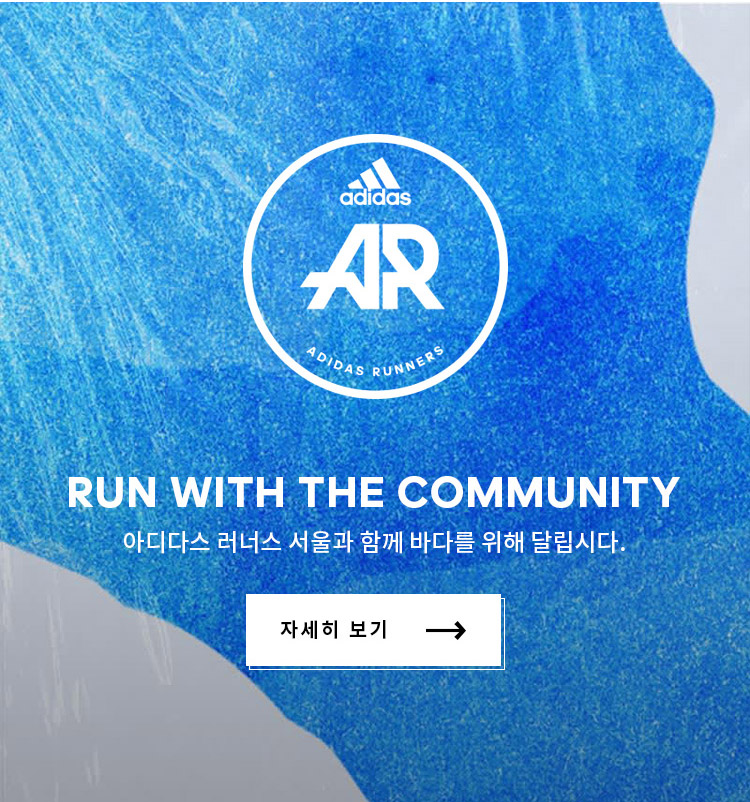
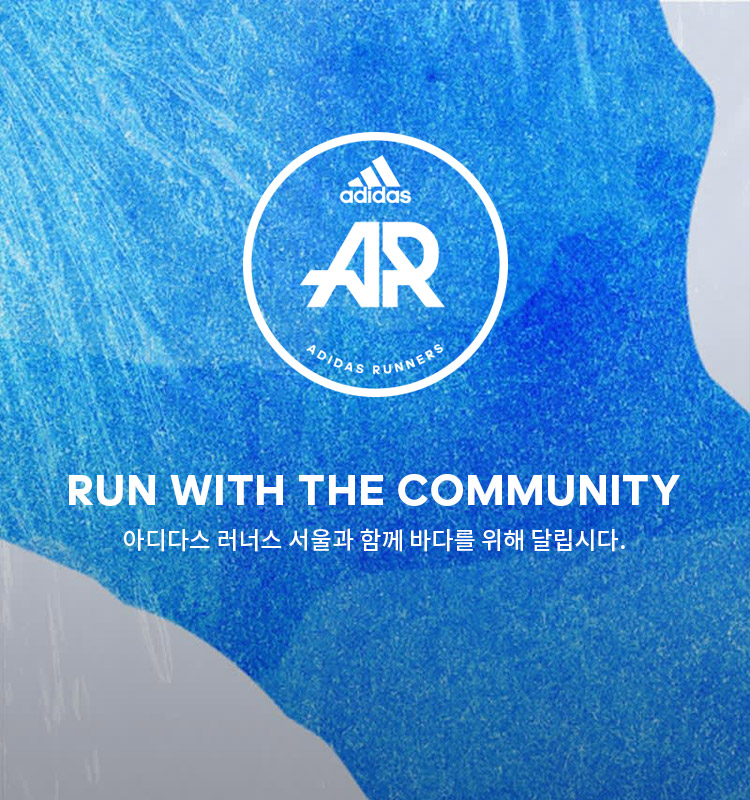
adi_cp_런포더오션

diff --git a/mobile/html/adidas/2019/event/runfortheocean/build/index.html b/mobile/html/adidas/2019/event/runfortheocean/build/index.html
@@ -444,7 +444,7 @@
        </div>
 
        <div id="container">
-<style type="text/css">@media screen and (max-width: 320px){html{font-size:10px}}@media screen and (min-width: 800px){html{font-size:12px}}.pseudo-element{content:'';display:block}#runforocean_cp{position:relative}#runforocean_cp .button_area_v2{display:inline-block;margin-bottom:2vh}#runforocean_cp .button_area_v2 a{width:auto;padding:0 1.3rem;font:500 1rem/46px 'NotoSansKR';letter-spacing:0;height:46px}#runforocean_cp .button_area_v2 a .arrow{width:20px}#runforocean_cp .button_area_v2 a .arrow::after{width:8px}#runforocean_cp .button_area_v2 a .arrow::before{width:8px}#runforocean_cp img{width:100%}#runforocean_cp .section{position:relative}#runforocean_cp .section a{position:absolute;top:0;left:0;width:100%;height:100%;z-index:1;display:block}
+<style type="text/css">@media screen and (max-width: 320px){html{font-size:10px}}@media screen and (min-width: 800px){html{font-size:12px}}.pseudo-element{content:'';display:block}#runforocean_cp{position:relative}#runforocean_cp .button_area_v2{display:inline-block;margin-bottom:2vh}#runforocean_cp .button_area_v2 a{width:auto;padding:0 1.3rem;font:600 1rem/46px 'NotoSansKR';letter-spacing:0.7px;height:46px}#runforocean_cp .button_area_v2 a .arrow{width:20px}#runforocean_cp .button_area_v2 a .arrow::after{width:8px}#runforocean_cp .button_area_v2 a .arrow::before{width:8px}#runforocean_cp img{width:100%}#runforocean_cp .section{position:relative;text-align:center}#runforocean_cp .section .button_area_v2{position:absolute;top:79%;left:50%;transform:translate(-50%, -50%);width:40%}
 </style>
 
            <div id="runforocean_cp">
@@ -455,7 +455,14 @@
                     <img src="/images/adidas/2019/event/runfortheocean/run02.jpg" alt="">
                 </div>
                 <div class="section">
-                    <a href="https://m.adidas.co.kr/MO/Club/adidasrunners.action"></a>
+                    <div class="button_area_v2">
+                        <div class="white">
+                            <a href="https://m.adidas.co.kr/MO/Club/adidasrunners.action">
+                                자세히 보기
+                                <span class="arrow"></span>
+                            </a>
+                        </div>
+                    </div>
                     <img src="/images/adidas/2019/event/runfortheocean/run03.jpg" alt="">
                 </div>
            </div>

diff --git a/mobile/html/adidas/2019/event/runfortheocean/index.html b/mobile/html/adidas/2019/event/runfortheocean/index.html
@@ -453,7 +453,14 @@
                     <img src="/images/adidas/2019/event/runfortheocean/run02.jpg" alt="">
                 </div>
                 <div class="section">
-                    <a href="https://m.adidas.co.kr/MO/Club/adidasrunners.action"></a>
+                    <div class="button_area_v2">
+                        <div class="white">
+                            <a href="https://m.adidas.co.kr/MO/Club/adidasrunners.action">
+                                자세히 보기
+                                <span class="arrow"></span>
+                            </a>
+                        </div>
+                    </div>
                     <img src="/images/adidas/2019/event/runfortheocean/run03.jpg" alt="">
                 </div>
            </div>

diff --git a/mobile/html/adidas/2019/event/runfortheocean/index.scss b/mobile/html/adidas/2019/event/runfortheocean/index.scss
@@ -10,8 +10,8 @@
 		a{
 			width: auto;
 			padding:0 1.3rem;
-			font: 500 1rem/46px 'NotoSansKR';
-			letter-spacing: 0;
+			font: 600 1rem/46px 'NotoSansKR';
+			letter-spacing: 0.7px;
 			height: 46px;
 			.arrow{
 				width:20px;
@@ -30,10 +30,13 @@
 	}
 	.section{
 		position: relative;
-		a{
+		text-align: center;
+		.button_area_v2{
 			position: absolute;
-			top:0;left:0;width:100%;height: 100%;z-index: 1;
-			display: block;
+			top: 79%;
+			left: 50%;
+			transform: translate(-50%, -50%);
+			width: 40%;
 		}
 	}
 
